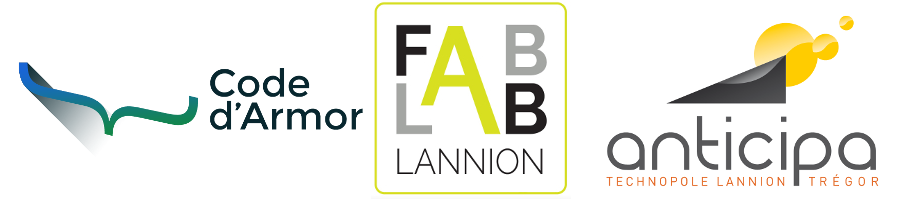
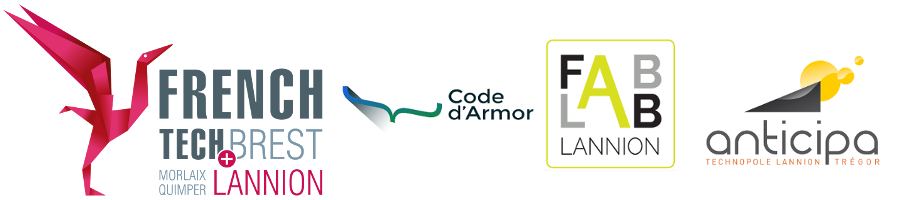
ajout images + modif présentations

Changed region(s): [[0.0, 0.0, 0.9956, 0.99], [0.9333, 0.06, 0.9644, 0.15]]

diff --git a/Adonnantes/index.html b/Adonnantes/index.html
@@ -29,10 +29,47 @@
 					###19 octobre 2016, ADIT
 				</section>
 				
-				<section data-markdown>
-					![Organisation](../img/orga.png)
+				<section>
+					<section data-markdown>
+						![Organisation](../img/orga.png)
+					</section>
+					<section data-markdown>
+						![anticipa](../img/logo-anticipa.jpg)
+					</section>					
+					<section data-markdown>
+						## Anticipa
+						Anticipa développe l’économie, encourage l’innovation et stimule l’esprit d’entreprendre sur le territoire du Trégor-Goëlo. Anticipa est l’animateur économique d’un réseau composé d’industriels, de porteurs de projets, de chercheurs, d’enseignants, d’étudiants, d’élus et d’experts.
+						
+						NOTRE MÉTIER : LE SOUTIEN À L’ÉCONOMIE TRÉGOROISE
+					</section>					
+					<section data-markdown>
+						## Fablab
+						* Un atelier ouvert
+						* Des machines (Découpeuse Laser, Imprimantes 3D, Thermoplieuse, postes à soudure...)
+						* Des gens: toi+moi+tous ceux qui le veulent
+						
+						EDUCATION POPULAIRE, BIDOUILLERIE, RECYCLAGE, PROTOTYPAGE
+					</section>					
+					<section data-markdown>
+						![Fablab](../img/fablab.png)
+						
+						http://fablab-lannion.org
+					</section>					
+					<section data-markdown>
+						![Code d'Armor](../img/codedarmor.png)
+					</section>					
+					<section data-markdown>
+						## Code d'Armor
+						Code d'Armor a pour but de construire une communauté de développeurs sur la région de Lannion.
+						Nous organisons des évènements autour du monde du développement informatique.
+						Passionnés, Intéressés, Motivés, Interloqués, vous êtes tous les bienvenus !
+						http://www.codedarmor.fr/
+					</section>					
+					<section data-markdown>
+						![French Tech](../img/logo_frenchtech_lannion.png)
+					</section>					
+
 				</section>
-				
 				<section>
 					<blockquote >
 						&ldquo;Une personne qui n’a jamais commis d’erreurs n’a jamais tenté d’innover.&rdquo;
@@ -53,49 +90,61 @@
 					</section>
 					
 					<section data-markdown>
-						##1: Projet de détection de la Marée
-						#### N.Rahmouni, X, ... (Collège C.Le Goffic/Lycée le Dantec)
+						###1: Détection de la Marée
+						#### N.Rahmouni, X, ... 
+						#### Collège C.Le Goffic/Lycée le Dantec
 					</section>
 
 					<section data-markdown>
-						##2: Maquette 3D : outil de modélisation pour Lannion 2030
+						###2: Maquette 3D : outil de modélisation pour Lannion 2030
 						https://youtu.be/LqaB2af2zag
-						#### G.Vayssie, V.Spiroux, F. Hugen, D. Le Roy(Services Techniques de la Ville de Lannion  / Lycée le Dantec)
+						#### G.Vayssie, V.Spiroux, F. Hugen, D. Le Roy
+						#### Services Techniques de la Ville de Lannion  / Lycée le Dantec
 					</section>
 
 					<section data-markdown>
-						##3: Meilleurs projets BTS 2015/2016
-						#### O.Bald (Lycée Le Dantec)
+						###3: Meilleurs projets BTS 2015/2016
+						#### O.Bald
+						#### Lycée Le Dantec
 					</section>
 
 					<section data-markdown>
-						##4: Surveillance de Ruches via LorA
-						#### B.Arzur (Fablab)
+						###4: Surveillance de Ruches via LorA
+						#### B.Arzur
+						#### Fablab
 					</section>
 
 					<section data-markdown>
-						##5: Transformer vos légos techniques en objets connectés
-						#### Manu (Fablab)
+						###5: BeagleGo: kit open hardware de robotique pour les enfants et les plus grands
+						#### Emmanuel Raulo-Kumagai
+						#### Fablab
 					</section>
 
 					<section data-markdown>
-						##6: Développement de centrale de brumisation et d'humidification pour terrarium
-						#### Fomel Joffray (Innov-terra)
+						###6: Innov-terra: Développement de centrale de brumisation et d'humidification pour terrarium
+						#### Fomel Joffray
+						#### Innov-terra
 					</section>
 
 					<section data-markdown>
-						##7: Application touristique
+						###7: Application touristique pour entrepreneurs
 						#### Thierry Lainé
 					</section>					
 
 					<section data-markdown>
-						##8: Trender
-						#### Julien Jacques (Fablab)
+						###8: Trender: une histoire de lumière et de temps
+						#### Julien Jacques
+						#### Fablab
 					</section>					
 
 					<section data-markdown>
 						##9: ???
 						#### Garage Nokia
+					</section>	
+
+					<section data-markdown>
+						##10: ???
+						#### ???
 					</section>	
 				</section>
 
